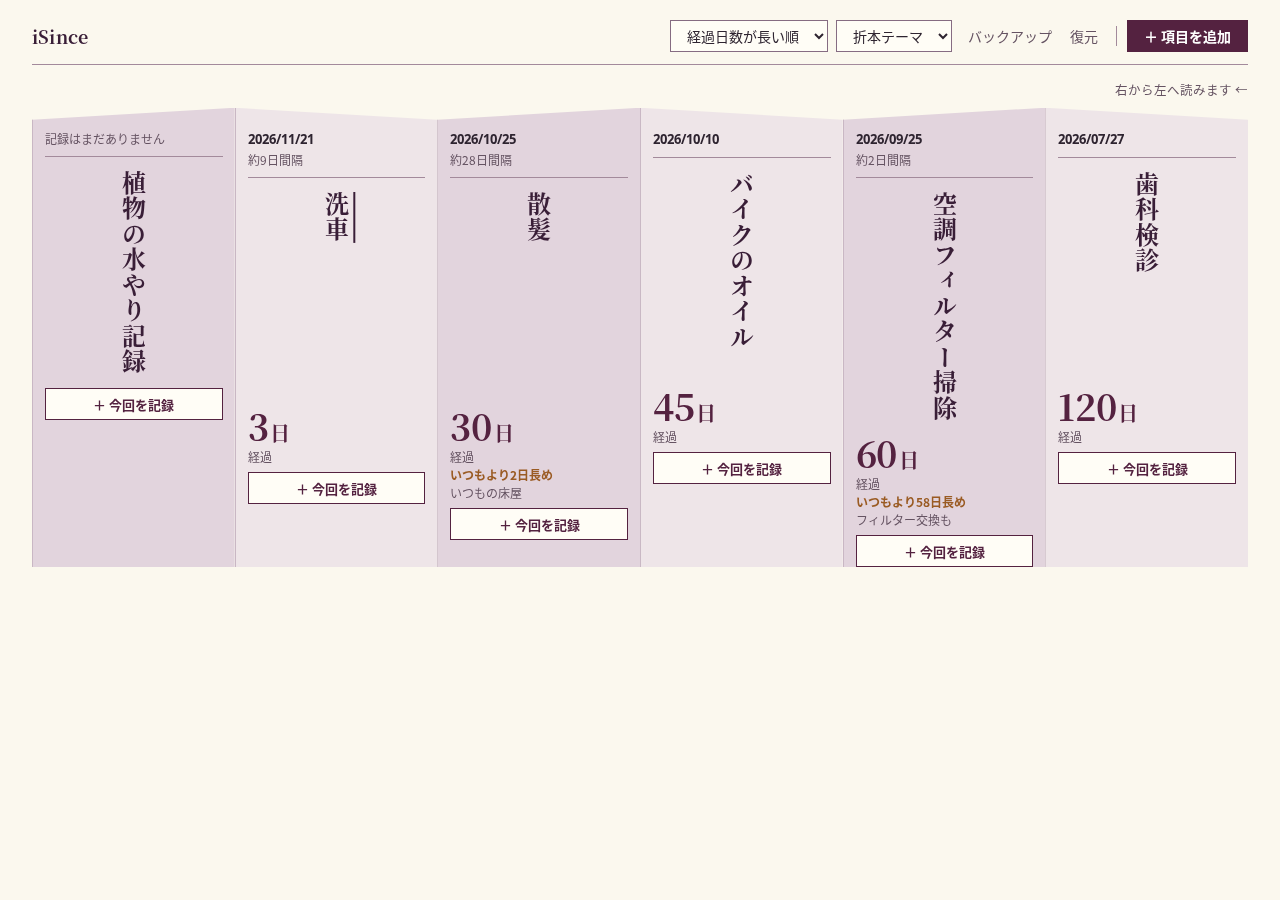
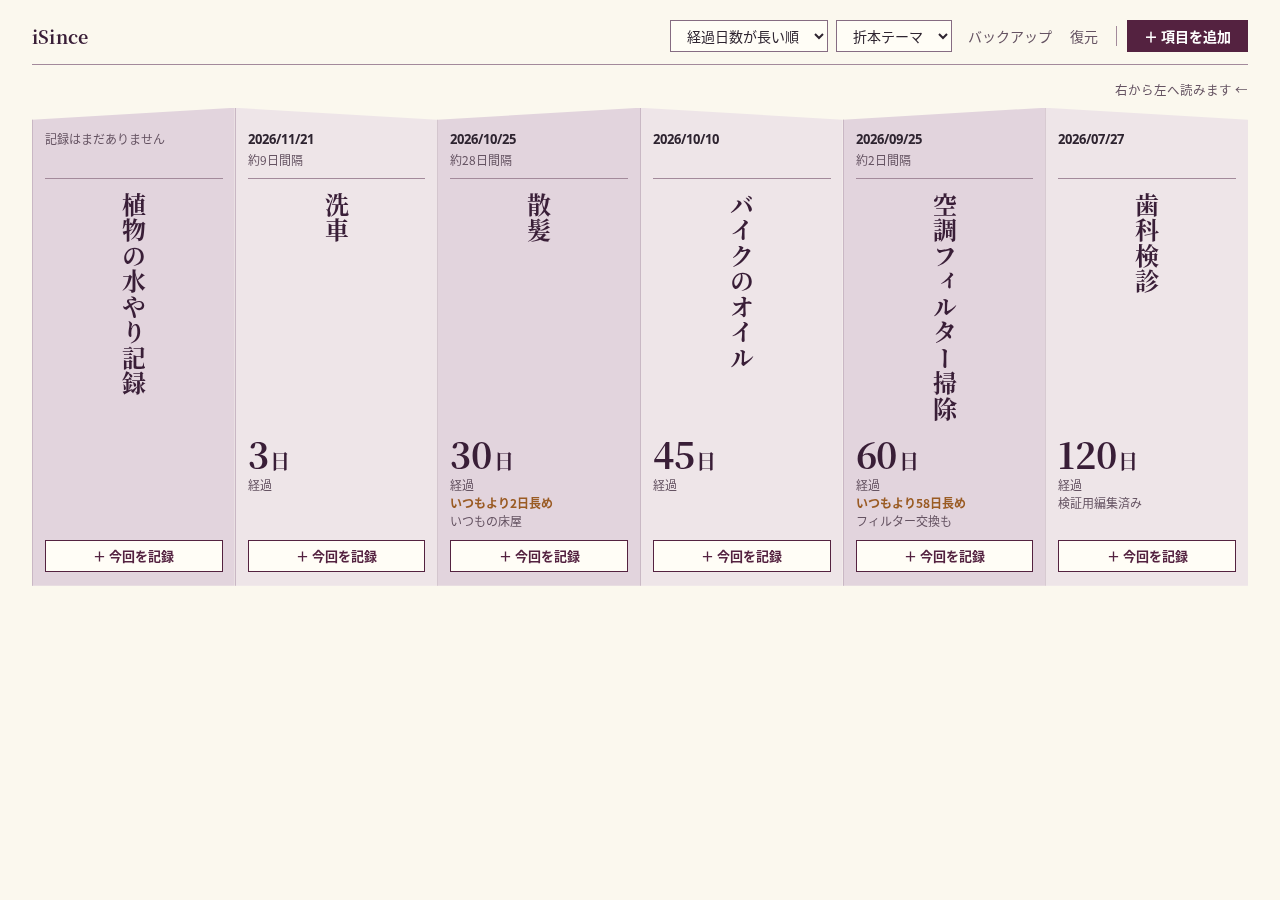
レビュー対応: 折本面の数値・記録ボタンの縦揃えと折り目でのクリップ解消、経過日数を墨色に

diff --git a/iSince.html b/iSince.html
@@ -589,6 +589,7 @@
   html[data-theme="origami"] .dialog-body h2{ font-family:var(--hp-mincho); color:var(--hp-deep); }
   html[data-theme="origami"] .elapsed-num,
   html[data-theme="origami"] .stat-box .stat-value{ font-family:var(--hp-mincho); font-weight:700; }
+  html[data-theme="origami"] .elapsed-num{ color:var(--hp-deep); }
   /* 葡萄色は選択・現在地・主操作の帯に限定する（経過日数などの数字は墨色明朝） */
   html[data-theme="origami"] .stat-box.emphasis .stat-value{ color:var(--hp-deep); }
   html[data-theme="origami"] .section-label{
@@ -619,12 +620,14 @@
     gap:0;
   }
   html[data-theme="origami"] .is-folded .card{
+    display:grid;
+    grid-template-columns:100%;
     grid-template-rows:auto 1fr auto;
     flex:1 1 0;
     min-width:150px;
     margin:0;
     gap:0;
-    padding:calc(var(--hp-tilt) + 10px) 12px 0;
+    padding:calc(var(--hp-tilt) + 10px) 12px 14px;
     background:var(--hp-page-l);
     border:0;
     border-left:1px solid var(--hp-fold);
@@ -636,6 +639,7 @@
   }
   html[data-theme="origami"] .is-folded .card-face-top{
     padding-bottom:8px;
+    min-height:49px;
     border-bottom:1px solid var(--hp-line);
     display:flex;
     flex-direction:column;
@@ -659,7 +663,9 @@
     letter-spacing:.06em;
     color:var(--hp-deep);
   }
-  html[data-theme="origami"] .is-folded .card-main{ flex-direction:column; align-items:stretch; gap:6px; }
+  html[data-theme="origami"] .is-folded .card-main{ flex-direction:column; align-items:stretch; gap:6px; min-height:136px; }
+  html[data-theme="origami"] .is-folded .card-main > .record-btn{ margin-top:auto; }
+  html[data-theme="origami"] .is-folded .card-main > .record-btn{ margin-top:auto; }
   html[data-theme="origami"] .is-folded .elapsed-num{ font-size:36px; }
   html[data-theme="origami"] .card-face-memo{
     font-size:12px;
